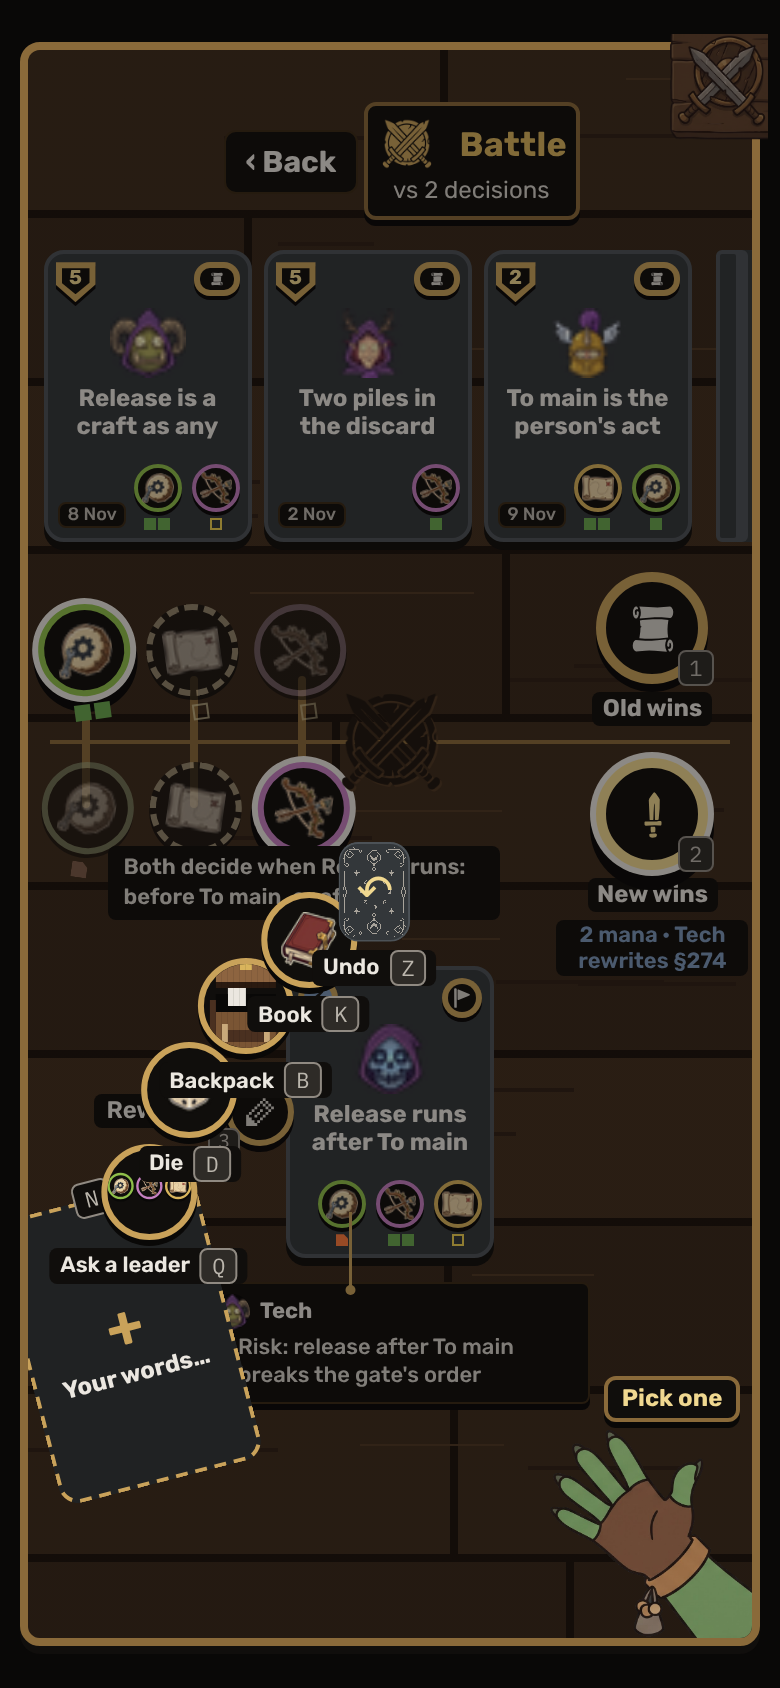
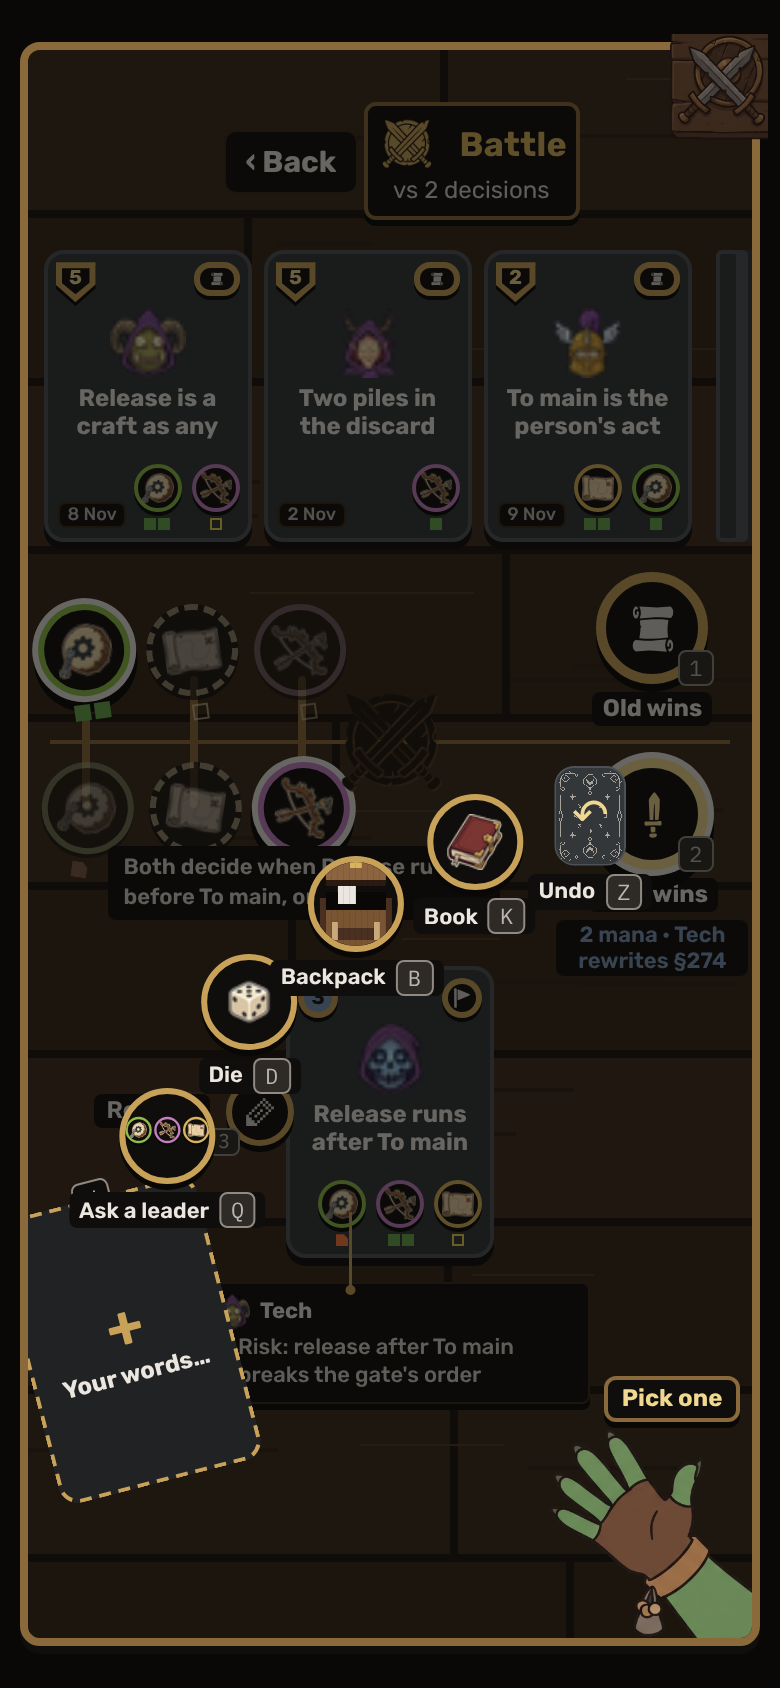
Mat mockups round 4: the hand button on Slots and Scheme
Claude-Session: https://claude.ai/code/session_01MCU3dnmwpxzAdFr5WE7TTZ

diff --git a/docs/mockups/battle-field/index.html b/docs/mockups/battle-field/index.html
@@ -292,7 +292,7 @@ body[data-face="phone"] .handbtn { height: 104px; } body[data-face="phone"] .han
 body[data-face="phone"] .handline { right: 6px; bottom: 108px; font-size: 12px; line-height: 15px; padding: 2px 7px; }
 body[data-face="phone"] .hand .rail { right: 124px; } body[data-face="phone"] .hand .hrow { right: 124px; }
 .hand .rail { right: 190px; }
-.fanveil { position: absolute; inset: 0; z-index: 9; background: color-mix(in srgb, var(--ork-room) 42%, transparent); }
+.fanveil { position: absolute; inset: 0; z-index: 9; background: color-mix(in srgb, var(--ork-room) 58%, transparent); }
 .fan { position: absolute; inset: 0; z-index: 10; pointer-events: none; --R: 420px; --cx: calc(100% - 86px); --cy: calc(100% - 124px); }
 .fan .it { position: absolute; --ae: calc(178deg - (178deg - var(--a)) * var(--spread, 1)); left: calc(var(--cx) + var(--R) * cos(var(--ae))); top: calc(var(--cy) - var(--R) * sin(var(--ae))); translate: -50% -50%; display: flex; flex-direction: column; align-items: center; gap: 4px; pointer-events: auto; }
 .fan .chipb { width: 56px; height: 56px; border-radius: 50%; background: var(--ork-plate); border: 4px solid var(--ork-bronze-hi); box-shadow: 0 3px 0 var(--ork-room); display: grid; place-items: center; overflow: hidden; }
